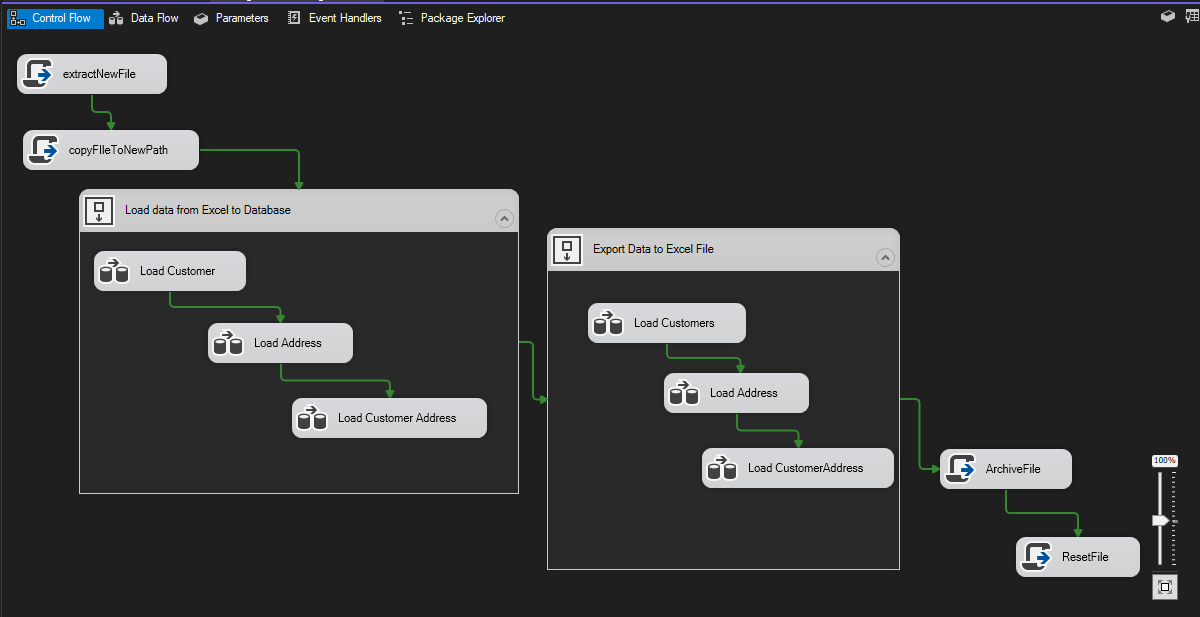
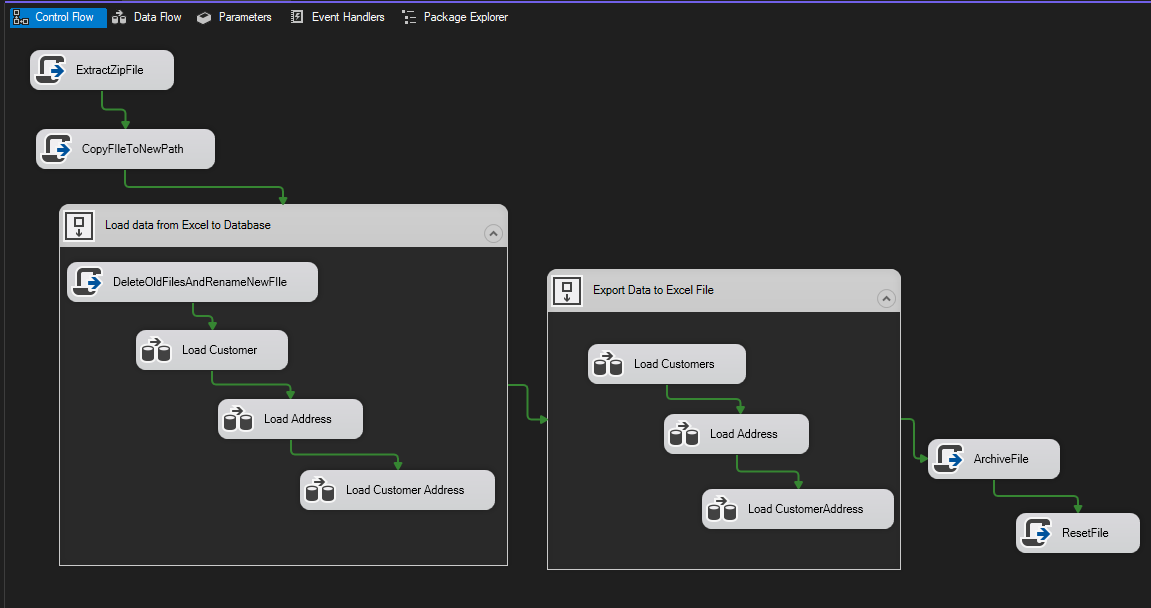
update

Changed region(s): [[0.0, 0.0, 1.0, 0.9688], [0.4561, 0.9062, 0.7602, 0.9375]]

diff --git a/README.md b/README.md
@@ -1,1 +1,26 @@
 # SSIS
+## Overview
+$ellBy is interested in participating in an Amazon Vine program that offers incentives for users who submit Amazon Vine reviews of any $ellBy products. Big Market has been hired by $ellBy to determine if the program is worth the cost. The purpose of this project is to download a video game review dataset, use PySpark to perform the ETL process, upload the data to an AWS RDS instance in PostgreSQL, and perform an analysis in order to determine if there is any bias towards $ellBy products from paid Vine members, based on their reviews.  
+## Resources
+
+
+Applications/Technologies:
+
+-	ETL (Extract, Transform, Load)
+-	SSIS (SQL Server Integration Services)
+-	VB.Net
+-	Visual Studio 2022
+-	Visual Studio Business Inteligence/Data Tools
+-	C#
+-	SQL Server Managment Studio
+-	Transact SQL
+-	Database Design
+
+#Summary
+
+The SSIS packages is designed to automate the ETL process and consist of 5 script tasks and 6 dataflow tasks. The script tasks extract and copy files to the folders used by the dataflow tasks. The script tasks also maintain file integrity by ensuring there are clean files where needed and files are not overwritten. The data flow tasks are broken up into two groups; Excel source dataflow tasks and OLEDB dataflow tasks. the Excel source dataflow tasks upload data to the database tables and the OLEDB dataflow task generate an Excel sheet summary of the uploaded data to confirm the ETL process has completed.
+
+
+
+
+#Script tasks
